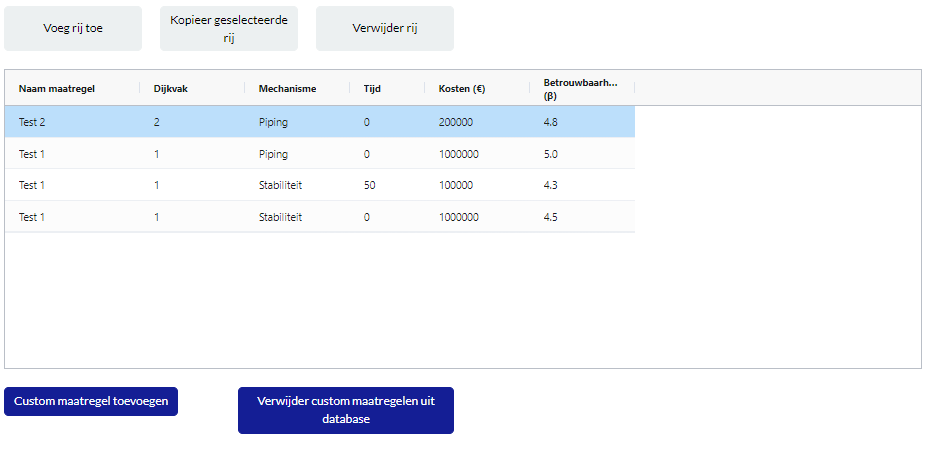
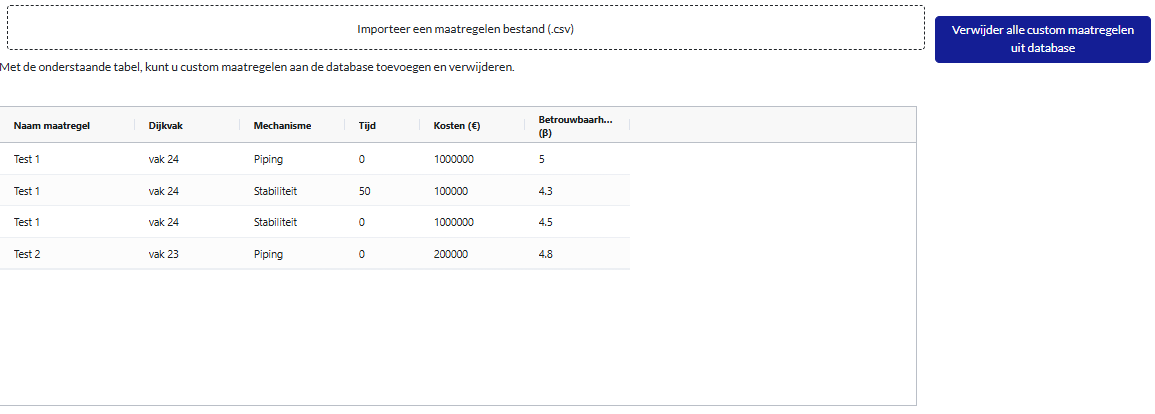
chore: adding dashboard instructions

diff --git a/vrtool_docs/Gebruikershandleiding/Postprocessing/WeergevenResultaten.rst b/vrtool_docs/Gebruikershandleiding/Postprocessing/WeergevenResultaten.rst
@@ -1,6 +1,6 @@
 Weergeven van resultaten op trajectniveau
 =============================================
-Wanneer vanuit het hoofdscherm wordt gekozen voor de pagina `Analyse per traject` kom je op de volgende pagina terecht. Hierin zijn een linkerpaneel en een rechterpaneel zichtbaar. In de volgende paragrafen worden deze nader toegelicht. 
+Wanneer vanuit het hoofdscherm wordt gekozen voor de pagina `Analyse per traject` wordt het deel van het dashboard geopend waarmee resultaten van veiligheidsrendementberekeningen op trajectniveau kunnen worden bekeken. Op de startpagina (hieronder weergegeven) zijn een linkerpaneel en een rechterpaneel zichtbaar. In de volgende paragrafen worden deze nader toegelicht. 
 
 .. figure:: img/Dashboard_inputoutput.png 
 
@@ -17,14 +17,14 @@ In het linkerpaneel worden 2 delen weergegeven:
 Selectie & instellingen database
 ~~~~~~~~~~~~~~~~
 
-Bij het gedeelte `Selectie & instellingen database` kan een traject worden geladen. Dat kan via de knop `Importeer een configuratiebestand (config.json)`, of door een `config.json` bestand er heen te slepen. Wanneer dit is gedaan, worden de resultaten van het traject geladen en weergegeven in het rechterpaneel. Afhankelijk van de grootte van het traject kan dit even duren. In het tabblad in de browser wordt dan `Updating...` weergegeven. Wanneer de vakindeling verschijnt op het startscherm is het traject geladen.
+Bij het gedeelte `Selectie & instellingen database` kan een database van een traject worden geladen. Dat kan via de knop `Importeer een configuratiebestand (config.json)`, of door een `config.json` bestand er heen te slepen. Wanneer dit is gedaan, worden de resultaten van het traject geladen en weergegeven in het rechterpaneel. Afhankelijk van de grootte van het traject kan dit even duren. In het tabblad in de browser wordt dan `Updating...` weergegeven. Wanneer de vakindeling verschijnt op het startscherm is het traject geladen.
 
 .. figure:: img/selectie_links.PNG 
    :width: 50%
    :align: center
 
 .. tip:: 
-    Voor het openen moet in het config.json bestand de padnaam naar de database worden gecontroleerd. Deze verwijzing moet kloppen, en het is belangrijk dat deze in het volgende format in de json staat ``"database_path": "C:/MijnDatabase"``. Dus met forward-slashes en zonder afsluitende /.
+    Voor het openen moet in het config.json bestand de padnaam naar de database worden gecontroleerd. Deze verwijzing moet kloppen, en het is belangrijk dat deze in het volgende format in de json staat ``"database_path": "C:/MijnDatabase"``. Dus met forward-slashes en zonder afsluitende /. Daarnaast moet een ``geojson`` bestand met de vakindeling aanwezig zijn, anders kunnen de resultaten niet op kaart worden weergegeven.
 
 
 Met het dropdown menu kan vervolgens de gewenste berekening worden geselecteerd. Alle berekeningen in de database worden hier automatisch weergegeven. Bij het selecteren van een andere berekening zullen de resultaten opnieuw geupdatet moeten worden (met de knop `Ververs resultaten`).
@@ -32,6 +32,9 @@ Met het dropdown menu kan vervolgens de gewenste berekening worden geselecteerd.
 De laatste optie is het selecteren van ofwel `Economisch optimaal`, ofwel `Faalkans`. Bij de optie `Economisch optimaal` worden de resultaten van de economisch optimale maatregelen weergegeven. In de VRTOOL wordt een hele reeks maatregelen doorgerekend, tot de kosten-batenverhouding kleiner is dan 0,1. Het economisch optimum, de combinatie van maatregelen met minimale totale kosten (versterking + risico) ligt dus al eerder dan dit punt (rond B/C=1). Met deze optie wordt gekozen welke maatregelen moeten worden meegenomen in de weergave. Met `Economisch optimaal` zijn dat alle maatregelen tot het punt dat de totale kosten minimaal zijn.
 
 In sommige gevallen is het wenselijk om de maatregelen weer te geven die voldoen aan een bepaalde kans in een bepaald jaar. Dit kan worden gedaan door `Faalkans` te selecteren. Hierbij kan een betrouwbaarheidsindex (omgerekende faalkans) worden ingevoerd samen met een jaar. Vervolgens wordt het optimalisatiepad 'afgekapt' op het punt waarbij de trajectfaalkans in het opgegeven jaar kleiner is dan de opgegeven faalkans. Door op `Ververs resultaten` te klikken kunnen de resultaten worden geupdatet.
+
+.. tip::
+    Het omrekenen van een faalkans naar een betrouwbaarheidsindex kan op basis van de standaard normaalverdeling. In Excel kan een betrouwbaarheidsindex worden berekend met de functie `=NORM.S.INV(1 - faalkans)`. En de bijbehorende faalkans met `=1 - NORM.S.DIST(beta, TRUE)`. 
 
 Exporteren van resultaten
 ~~~~~~~~~~~~~~~~~~~~~~~~~
@@ -102,7 +105,7 @@ Met de knoppen linksboven kan gewisseld worden tussen weergaven van het type maa
     :header-rows: 1
     :widths: 20, 20, 40
 
-Opgemerkt moet worden dat bij de weergave van de maatregelen de slider ook werkt: wanneer bijv. 2025 wordt geselecteerd worden alle maatregelen tot en met 2025 weergegeven, wanneer 2050 wordt geselecteerd worden alle maatregelen tot dat jaar weergegeven.
+Opgemerkt moet worden dat bij de weergave van de maatregelen de slider ook werkt: wanneer bijv. 2025 wordt geselecteerd worden alle maatregelen die in de veiligheidsrendement berekening een jaar van investeren tot en met 2025 hebben weergegeven, maar maatregelen daarna niet. Daarvoor moet de slider dan worden verschoven.
 
 Resultaten optimalisatie
 ~~~~~~~~~~~~~~~~~~~~~~~~
@@ -146,7 +149,7 @@ Op de pagina `Prioriteringsinformatie` wordt samengevat wat de meest aantrekkeli
 
 Maatregelen
 ~~~~~~~~~~~
-Op de pagina `Maatregelen` kunnen de beschikbare maatregelen per dijkvak worden bekeken. Na het selecteren van een dijkvak wordt voor alle beschikbare maatregelen de kosten en de faalkans/betrouwbaarheid weergegeven. Met de instellingen in het linkerpaneel kan dit voor een specifiek mechanisme, of voor alle mechanismen samen worden gedaan. De zwarte puntjes zijn de verschillende maatregelen die beschikbaar zijn, in groen zijn de maatregelen weergegeven die in het optimalisatiepad van veiligheidsrendement voorkomen. De blauwe en rode diamanten geven de uiteindelijke maatregelen weer die worden genomen in de referentievariant en de economisch optimale variant. 
+Op de pagina `Maatregelen` kunnen de beschikbare maatregelen per dijkvak worden bekeken. Na het selecteren van een dijkvak wordt voor alle beschikbare maatregelen de kosten en de faalkans/betrouwbaarheid weergegeven. Met de instellingen in het linkerpaneel kan dit voor een specifiek mechanisme, of voor alle mechanismen samen worden gedaan. De zwarte puntjes zijn de verschillende maatregelen die beschikbaar zijn, in groen zijn de maatregelen weergegeven die in het optimalisatiepad van veiligheidsrendement voorkomen. De blauwe en rode diamanten geven de uiteindelijke maatregelen weer die worden genomen in de referentievariant en de gekozen oplossing voor veiligheidsrendement (bijv. de economisch optimale variant of een andere keuze). 
 
 .. figure:: img/maatregelen_voorbeeld.png 
     :width: 100%

diff --git a/vrtool_docs/Gebruikershandleiding/Postprocessing/BerekeningenMetDashboard.rst b/vrtool_docs/Gebruikershandleiding/Postprocessing/BerekeningenMetDashboard.rst
@@ -39,22 +39,41 @@ Het draaien van aangepaste berekeningen kan handig zijn wanneer:
 
 Werken met custom maatregelen
 -----------------------------
-Naast het rekenen met de standaard maatregelen is het ook mogelijk om met custom maatregelen te rekenen. Dit kan bijvoorbeeld handig zijn wanneer er een specifieke maatregel moet worden meegenomen die niet in de standaard set zit. Denk aan een specifieke maatwerkoplossing op een bepaald dijkvak. Custom maatregelen kunnen worden ingevoerd in het tabblad ``Custom maatregelen``. Hier is een tabel zichtbaar zoals in onderstaande figuur. In dit geval zijn er 2 custom maatregelen ingevoerd: maatregel `Test 1` op dijkvak 1, en `Test 2` op dijkvak 2.
+Naast het rekenen met de standaard maatregelen is het ook mogelijk om met custom maatregelen te rekenen. Of deze moeten worden meegenomen kan in het tabblad `Run optimize` worden aangevinkt. Dit kan bijvoorbeeld handig zijn wanneer er een specifieke maatregel moet worden meegenomen die niet in de standaard set zit. Denk aan een specifieke maatwerkoplossing op een bepaald dijkvak. Custom maatregelen kunnen worden ingevoerd in het tabblad ``Custom maatregelen``. Hier is een tabel zichtbaar zoals in onderstaande figuur. In dit geval zijn er 2 custom maatregelen ingevoerd: maatregel `Test 1` op vak 24, en `Test 2` op vak 23.
 
 .. figure:: img/custom_measure_interface.png
     :width: 80%
     :align: center
 
-Voor beide maatregelen zijn kosten & betrouwbaarheid ingevoerd. Voor de kosten geldt dat bij `Test 1` 2 verschillende bedragen zijn ingevoerd. In dat geval neemt de VRTOOL het hoogste bedrag. Voor de betrouwbaarheid wordt de betrouwbaarheid van de maatregel ingevoerd voor verschillende jaren en mechanismen. Daarbij worden de getallen in de tabel geinterpreteerd als in onderstaande figuur. Wanneer niets wordt ingevoerd wordt aangenomen dat de betrouwbaarheid gelijk blijft. Custom maatregelen worden niet gecombineerd met andere maatregelen.
+Voor beide maatregelen zijn kosten & betrouwbaarheid ingevoerd. Voor de kosten geldt dat bij `Test 1` 2 verschillende bedragen zijn ingevoerd. In dat geval neemt de VRTOOL het eerste bedrag uit de tabel ``CustomMeasureDetail`` in de database. Voor de betrouwbaarheid wordt de betrouwbaarheid van de maatregel ingevoerd voor verschillende jaren en mechanismen. Daarbij worden de getallen in de tabel geinterpreteerd als in onderstaande figuur. Wanneer niets wordt ingevoerd wordt aangenomen dat de betrouwbaarheid gelijk blijft. Custom maatregelen worden niet gecombineerd met andere maatregelen.
+
+.. warning::
+    Het advies is om goed te controleren of de kosten van de maatregel goed zijn ingevoerd: wanneer er verschillende bedragen zijn ingevoerd, wordt alleen het eerste bedrag meegenomen in de berekening. Dit kan leiden tot onjuiste resultaten.
 
 .. figure:: img/custom_measure_concept.png
     :width: 80%
     :align: center
 
-De custom maatregelen zijn terug te vinden door de SQLite te openen in een database viewer. In de tabel ``CustomMeasureDetail`` zijn de ingevoerde waarden te zien. In de tabellen ``MeasureResultMechanism`` en ``MeasureResultSection`` is te zien hoe de betrouwbaarheidsindex en kosten zijn geinterpreteerd. 
+Het invoeren van custom maatregelen gaat via een csv-bestand. Dit csv-bestand moet de volgende kolommen bevatten:
+
+* maatregelen: de naam van de maatregel. Op basis hiervan worden verschillende regels voor dezelfde maatregel aan elkaar gekoppeld in de database.
+* dijkvak: het dijkvak waarop de maatregel van toepassing is. Dit moet overeenkomen met de naam van een dijkvak in de database.
+* mechanism: het mechanisme waarop de regel van de maatregel van toepassing is. Toegestane waarden zijn: Stabiliteit, Piping, Overslag en Bekleding.
+* tijd: het tijdstip waarop de regel van toepassing is. Dit moet een waarde tussen 0 en 100 zijn.
+* kosten: de kosten van de maatregel. Dit moet een positief getal zijn. Let op dat alle kosten voor dezelfde maatregel gelijk zijn. Alleen de eerste waarde wordt meegenomen in de berekening.
+* beta: de betrouwbaarheidsindex van de maatregel.
+
+Na het vullen van het csv-bestand kan deze worden geupload via het blok in de interface. Daarna worden alle maatregelen in de database weergegeven in de tabel. De wijze waarop deze in de database zijn opgeslagen is terug te vinden door de SQLite te openen in een database viewer. In de tabel ``CustomMeasureDetail`` zijn de ingevoerde waarden te zien. In de tabellen ``MeasureResultMechanism`` en ``MeasureResultSection`` is te zien hoe de betrouwbaarheidsindex en kosten zijn geinterpreteerd.
 
 .. figure:: img/custom_measure_sqlite.png
     :width: 80%
     :align: center
 
-Bij het toevoegen van custom maatregelen wordt altijd een backup gemaakt van de bestaande database om te voorkomen dat de originele resultaten verloren gaan. Deze zijn terug te vinden in de folder van de originele database.
+.. admonition:: Basisregels bij het toevoegen van maatregelen
+    Bij het toevoegen van custom maatregelen gelden de volgende basisregels:
+
+    1. Bij het toevoegen van nieuwe custom maatregelen wordt altijd een backup van de database gemaakt. Deze is terug te vinden in de folder van de originele database.
+    2. Als de naam van een maatregel al bestaat wordt deze niet opnieuw toegevoegd. Dus ook als een deel van de invoer (bijv. de kosten) wordt aangepast wordt dit niet aangepast.
+    3. De kosten van de maatregel moeten gelijk zijn voor alle regels. Als dit niet zo is wordt alleen de eerste waarde meegenomen in de berekening.
+    4. Als een deel van de maatregel(namen) al bestaat worden deze maatregelen niet toegevoegd, de andere maatregelen in de csv wel.
+    5. Met de knop ``Verwijder alle custom maatregelen uit database`` kunnen custom maatregelen worden verwijderd. Dit is een ``safe`` verwijdering: alle maatregelen die zijn gebruikt in een berekening blijven bestaan. Wanneer er daadwerkelijk foute maatregelen zijn toegevoegd kan de database worden hersteld vanuit de automatisch gemaakte backup. 

diff --git a/vrtool_docs/Gebruikershandleiding/Postprocessing/index.rst b/vrtool_docs/Gebruikershandleiding/Postprocessing/index.rst
@@ -3,7 +3,7 @@ Werken met het dashboard
 
 Na het rekenen met de VRTOOL kan de database met resultaten worden geimporteerd in het dashboard. Met dit dashboard kunnen resultaten worden weergegeven en geanalyseerd, en kunnen nieuwe optimalisatieberekeningen met nieuwe instellingen worden uitgevoerd. 
 
-Het dashboard kan worden gestart door in Anaconda Prompt ``python -m src.index`` uit te voeren. Het dashboard verschijnt nu automatisch in de browser. Mocht dit niet gebeuren, kopieer dan de url (http://127.0.0.1:8050/) en open deze in je browser.
+Het dashboard kan worden gestart door in Miniforge/Anaconda Prompt ``python -m src.index`` uit te voeren. Het dashboard verschijnt nu automatisch in de browser. Mocht dit niet gebeuren, kopieer dan de url (http://127.0.0.1:8050/) en open deze in je browser.
 
 Wanneer het dashboard wordt geopend verschijnt eerst de startpagina:
 
